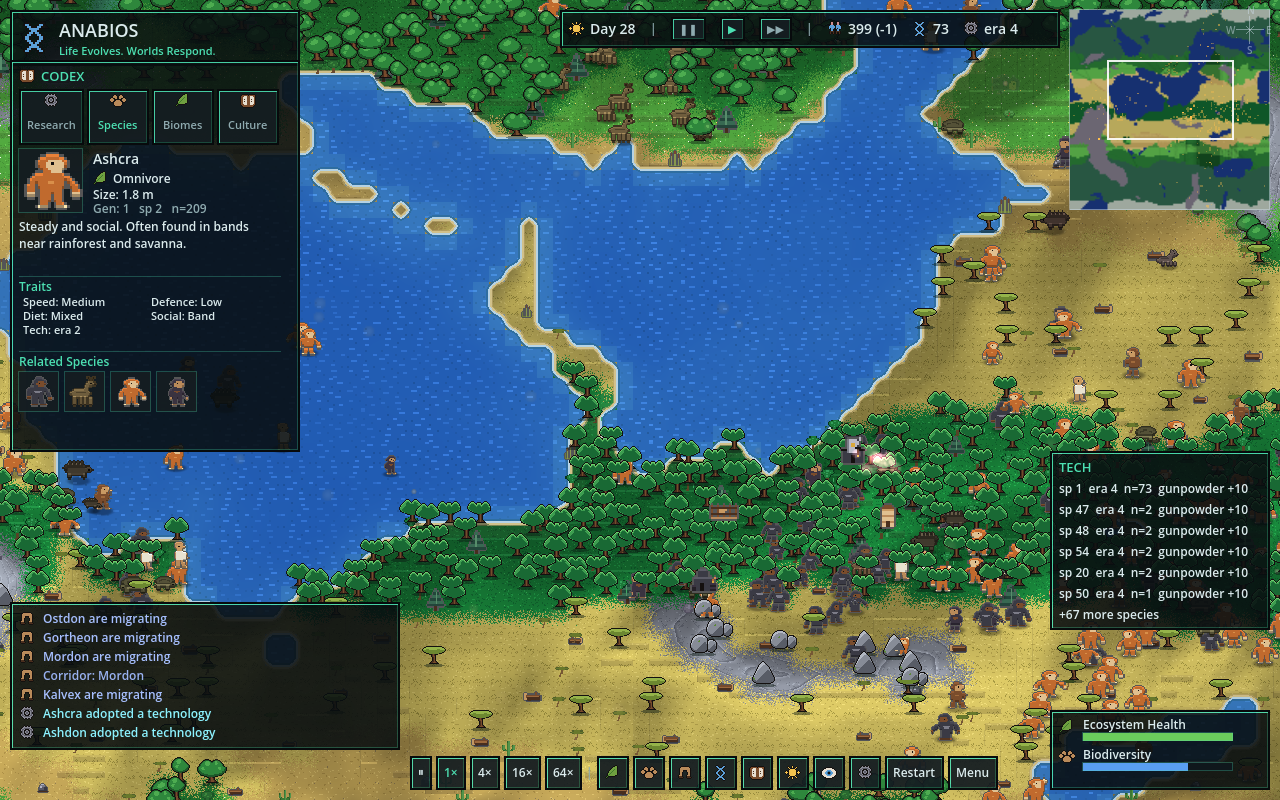
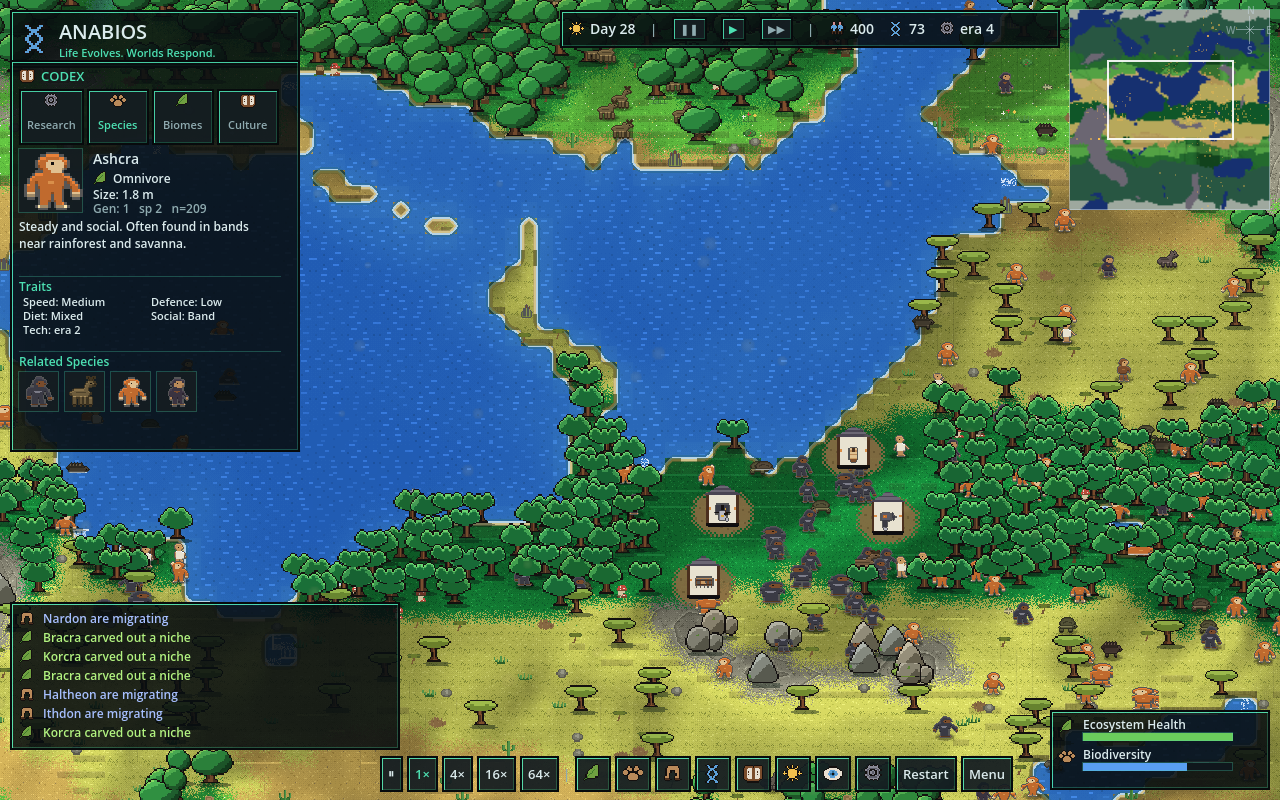
viewer: invention landmarks as 32 px workshops, yurts with walls
The 22 invention landmarks were the last 16 px art in the world: icon
blocks drawn as buildings at twice the grain of everything around them.
Every landmark is now a 32x44 walled workshop front (slate roof, plaster
wall between corner posts, two lit windows; WORKSHOP_ROWS in
building_sprites.gd, painted through the structure palette) with its
16 px invention icon blended onto the wall as the shop sign, the tall
band extruded from a plain wall row above the sign so no sign pixel
repeats; the Fire and Metalworking lifts still flicker their sign.
StructureTall.extrude() is the shared row-extrusion the kind variants
and the workshop both use. Each lineage's ring of workshops stands on
dirt yards in a published clearing, like a village, instead of in the
trees. The hide yurt joins the tall kinds with a four-row wall band.
Gallery: the two inventions stills and the camp.

Claude-Session: https://claude.ai/code/session_019kbTtZKC2VJBPY6SALU64h

diff --git a/gallery/README.md b/gallery/README.md
@@ -42,7 +42,7 @@ pins an agent in the unit card.
 
 | File | Scenario / tick / zoom | What you're seeing |
 |---|---|---|
-| scale-settlement-t891-village-4x.png | `settlement` t891 4× (default camera, `ANABIOS_INSPECT=1`) | A camp on packed-earth yards with paths to the hearth, tents spaced a hut-width apart on 20-unit tiles, the crowd capped to one figure per 17 units at 4× (12 at 2×, staggered rows), a market square with awning stalls beside it, pixel-puff hearth smoke, the outcrop east of the camp as warm stone, the unit card. |
+| scale-settlement-t891-village-4x.png | `settlement` t891 4× (default camera, `ANABIOS_INSPECT=1`) | A camp on packed-earth yards with paths to the hearth, tents and walled hide yurts spaced a hut-width apart on 20-unit tiles, the crowd capped to one figure per 17 units at 4× (12 at 2×, staggered rows), a market square with awning stalls beside it, pixel-puff hearth smoke, the outcrop east of the camp as warm stone, the unit card. |
 | scale-settlement-t891-fortified-2x.png | `settlement` t891 2× (`ANABIOS_VILLAGE_ERA=2 ANABIOS_VILLAGE_FLAGS=123`) | The same camp forced into its fortified era: timber-frame houses with slate roofs over a front wall about a figure high (the 32×44 tall variants, roughly two figures tall on a 20-unit tile), a log palisade hugging them, a gate with banners and a catapult to the south, a watchtower, fenced fields outside the wall, the forest standing back from the clearing. |
 | scale-settlement-t891-raided-4x.png | `settlement` t891 4× (`ANABIOS_VILLAGE_ERA=1 ANABIOS_VILLAGE_FLAGS=127`) | The same camp as a raided thatch village: thatch huts with walled fronts, burnt ruins with pixel flames and black smoke over them, the palisade, the fenced field. |
 | scale-settlement-t3120-camp-4x.png | `settlement` t3120 4× | The same camp later: hearth smoke, herds at the square, codex species page. |
@@ -56,8 +56,8 @@ pins an agent in the unit card.
 | scale-riverlands-t291-river-4x.png | `riverlands` t291 4× at (2367, 1017) | A one-cell river running diagonally through the oaks as one stream between mud banks: the diagonal coast tiles carry a channel instead of pinching the cells into beads, and a river shore is bank, not beach. |
 | scale-riverlands-t291-clutter-4x.png | `riverlands` t291 4× at (2500, 1200) | Flowers, tufts, mushrooms and stumps at 4×. |
 | scale-riverlands-t291-lake-4x.png | `riverlands` t291 4× at (2427, 1357) | A desert lake: one flat blue, sparse strokes, foam and beach from the coast autotile. |
-| scale-inventions-t2620-coast-2x.png | `inventions` t2620 2× (`ANABIOS_CODEX_TAB=1`) | Hominin bands along a coast. |
-| scale-inventions-t2620-hominins-4x.png | `inventions` t2620 4× (`ANABIOS_INSPECT=1`, `ANABIOS_CODEX_TAB=0`) | Hand-authored hominins in the field (one wading offshore, cut at the waterline), the research list with an icon per invention, the unit card; the species, adaptation and tech tables stay hidden until `[P]`. |
+| scale-inventions-t2620-coast-2x.png | `inventions` t2620 2× (`ANABIOS_CODEX_TAB=1`) | Hominin bands along a coast; an invention-holding band's workshops (32 px walled fronts with the invention icon as the shop sign) on dirt yards in a clearing of the wood. |
+| scale-inventions-t2620-hominins-4x.png | `inventions` t2620 4× (`ANABIOS_INSPECT=1`, `ANABIOS_CODEX_TAB=0`) | Hand-authored hominins in the field (one wading offshore, cut at the waterline) among their workshops, each a slate-roofed plaster front at the structures' pixel grain with its invention hung as a sign, the research list with an icon per invention, the unit card; the species, adaptation and tech tables stay hidden until `[P]`. |
 | scale-inventions-t2620-unit-card-1x.png | `inventions` t2620 1× (`ANABIOS_INSPECT=1`) | The same at 1×. |
 | scale-huge-steppe-t191-2x.png | `huge-steppe` t191 2× | The 8192-unit Huge tier streaming its ground chunks. |
 | scale-minimal-t111-shoreline-8x.png | `minimal` t111 8× | Shoreline autotile at 8×. |
